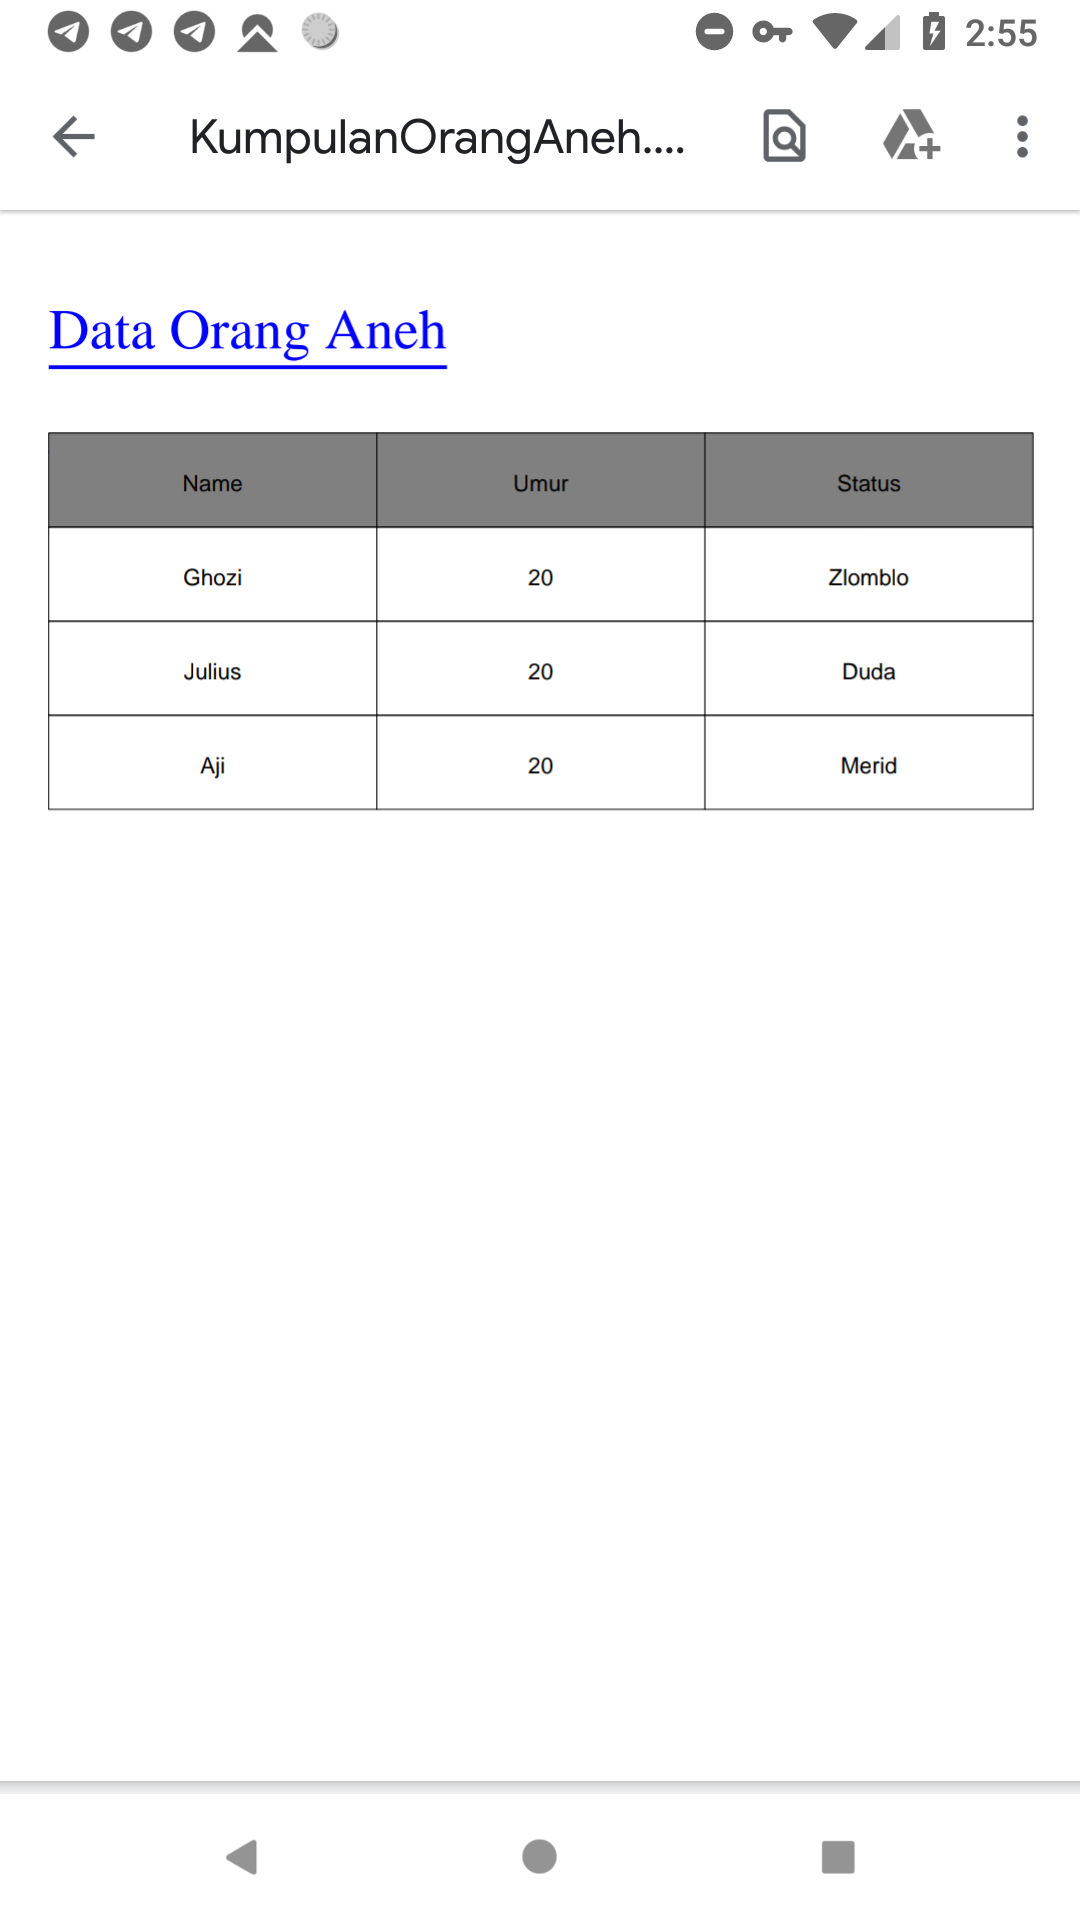
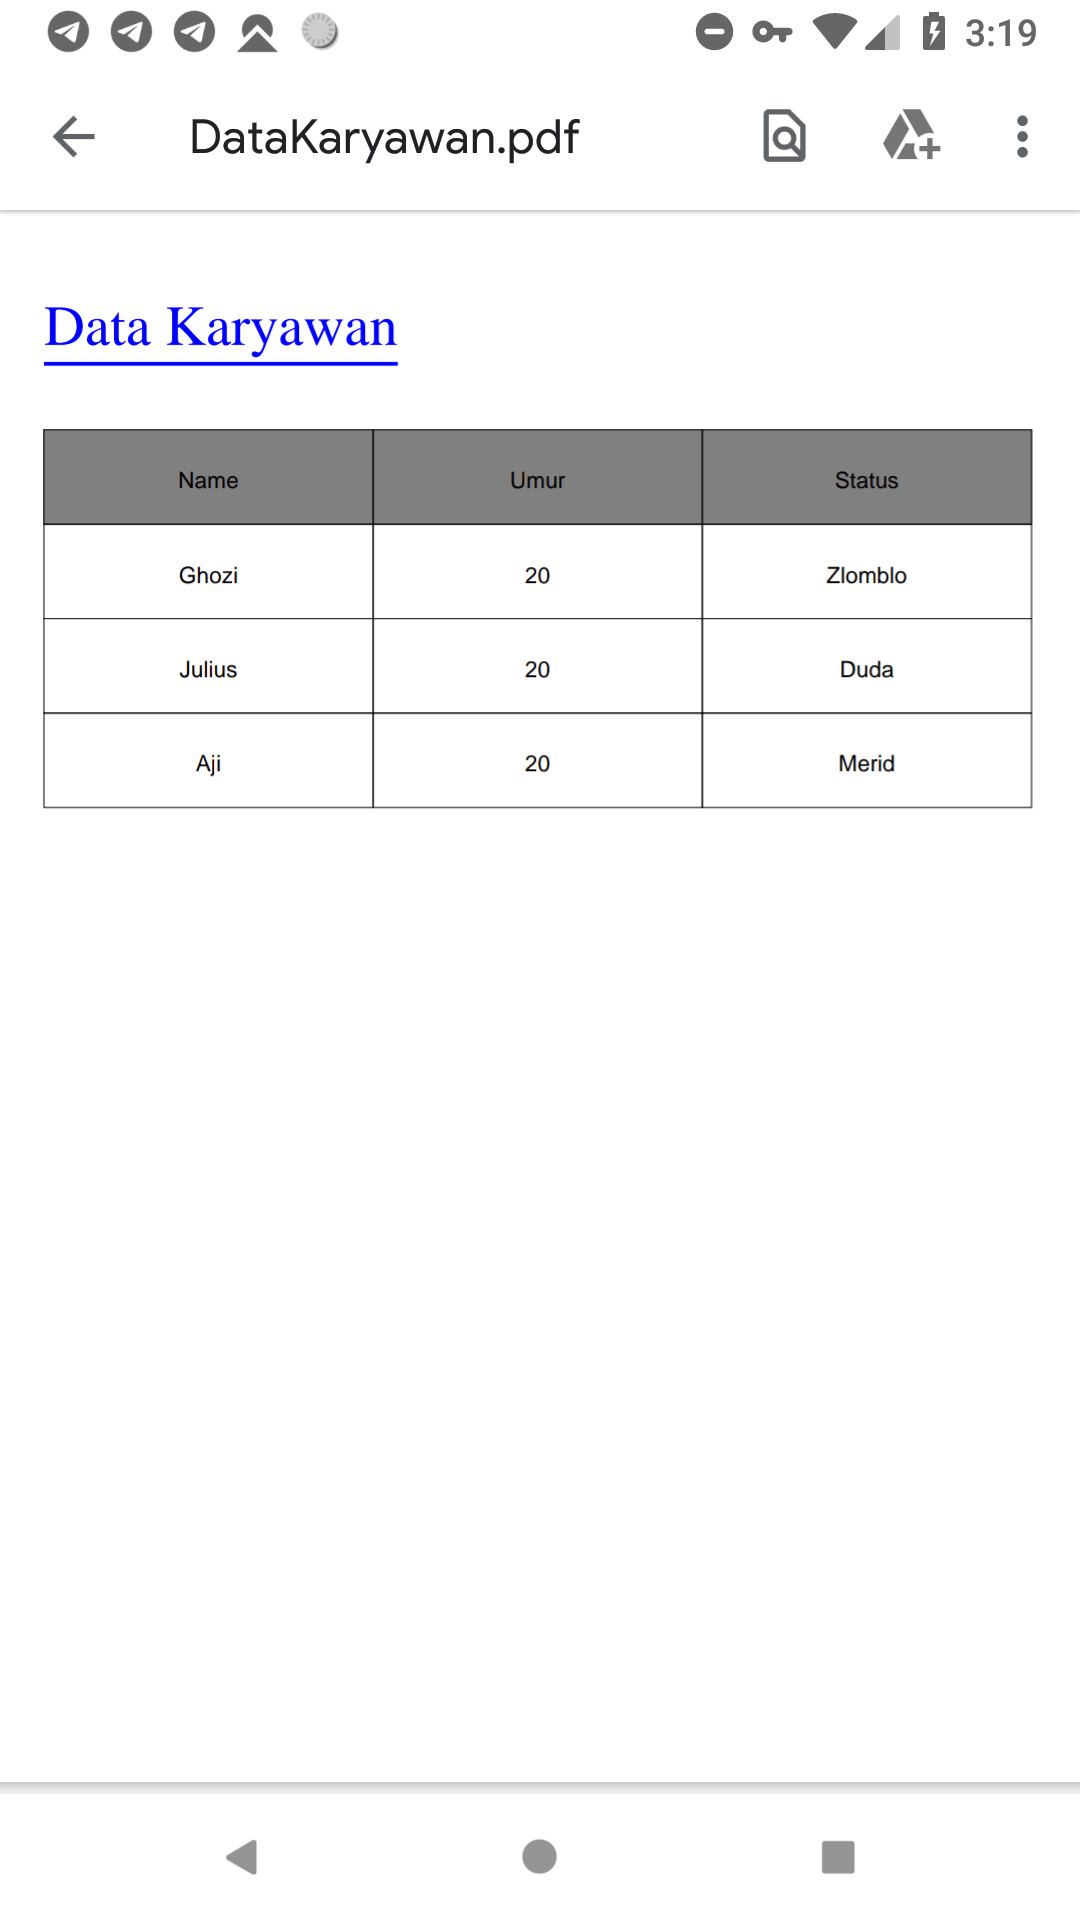
change title

diff --git a/app/src/main/java/com/blank/printtopdf/MainActivity.kt b/app/src/main/java/com/blank/printtopdf/MainActivity.kt
@@ -95,7 +95,7 @@ class MainActivity : AppCompatActivity() {
                 table.addCell(status)
             }
 
-            val pdfname = "KumpulanOrangAneh.pdf" // set namanya disinih
+            val pdfname = "DataKaryawan.pdf" // set namanya disinih
             val pdfFile = File(docsFolder.absolutePath, pdfname)
             val output = FileOutputStream(pdfFile)
             PdfWriter.getInstance(document, output) // create file pdf
@@ -111,7 +111,7 @@ class MainActivity : AppCompatActivity() {
 
             val g = Font(Font.FontFamily.TIMES_ROMAN, 20.0f, Font.NORMAL, BaseColor.BLUE)
 
-            document.add(Paragraph("Data Orang Aneh \n \n", f)) // setting header diluar table
+            document.add(Paragraph("Data Karyawan \n \n", f)) // setting header diluar table
             document.add(table) // add table to document
 
             document.close()
